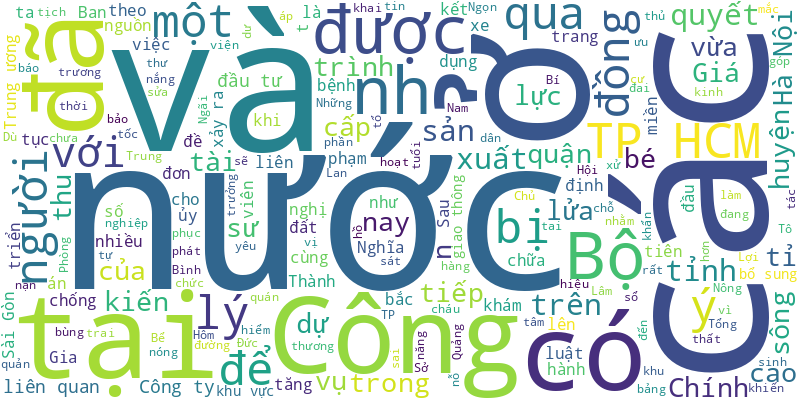
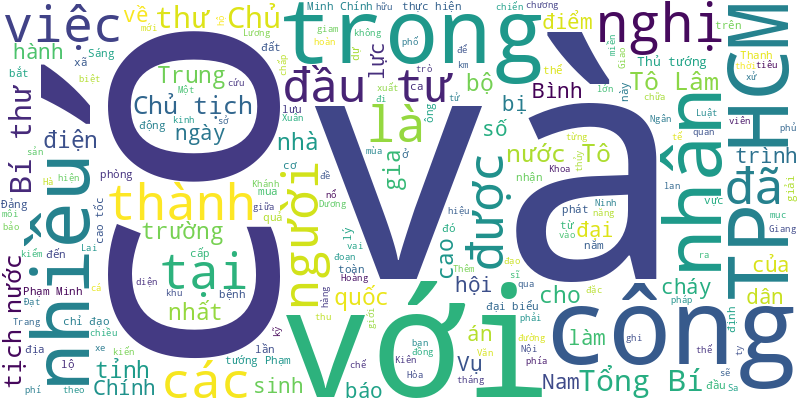
🍀 = 40%

diff --git a/README.md b/README.md
@@ -1,70 +1,71 @@
 # Tuoi Tre RSS 
 
 ## Giáo dục 
-- Ngày 16-8, Nhà xuất bản Đại học Sư phạm TP.HCM đã ra mắt bộ sách "Học tiếng Anh với người nước ngoài" (Global Gateway) cho học sinh từ lớp 1 đến lớp 12, nhằm tăng cường khả năng nghe, nói tiếng Anh cho học sinh theo chương trình phổ thông 2018.
-- Bộ Giáo dục và Đào tạo sẽ ban hành quy chế tuyển sinh lớp 10 theo chương trình mới thống nhất trên toàn quốc.
-- Ban giám hiệu nhà trường nhận thấy việc ra quyết định "dừng đào tạo" học sinh là chưa hợp lý, quan tâm đến từng học sinh nhưng chưa đúng phương pháp.
-- Trường cao đẳng Việt Nam liệu có đủ sức tham gia vào 'cuộc chơi' đào tạo lao động cho các ngành về công nghệ bán dẫn?
-- Trường cao đẳng Sư phạm Đắk Lắk mắc nhiều sai phạm và bị đánh giá là chậm khắc phục, trong đó có việc 100 sinh viên tuyển vượt chỉ tiêu, chưa được cấp bằng.
-- Thứ trưởng Bộ Giáo dục và Đào tạo Phạm Ngọc Thưởng đã yêu cầu TP.HCM sớm có trường phổ thông dùng tiếng Anh là ngôn ngữ thứ 2.
-- Phát hiện hai em nhỏ bị rơi xuống sông đuối nước, ba học sinh lớp 8 đã lao tới cứu các em, đưa lên bờ an toàn.
-- Các bài học về kỹ năng sống phải được thiết kế thiết thực hơn. Sự trải nghiệm quan trọng nhất là trải nghiệm thực tế cuộc sống.
-- Phải có đủ sách giáo khoa đến tay học sinh trước năm học mới 2024-2025 là yêu cầu của Bộ GD-ĐT được nhắc lại khi sắp tới ngày khai trường.
-- Chính quyền Jakarta lên kế hoạch sắp xếp cho học sinh nghèo được học miễn phí tại 1.000 trường tư thục trong năm học tới.
-- Trong năm học mới, các trường phát triển hệ thống ngân hàng câu hỏi trực tuyến cho các môn học; đẩy mạnh đánh giá thường xuyên bằng hình thức trực tuyến...
-- Liên quan vụ tố không xác nhận cư trú cho trẻ đi học, người cha cho biết đã chuyển chỗ ở từ Vĩnh Long sang Bến Tre để con kịp nhập học.
-- Theo dự thảo sửa đổi, bổ sung thông tư số 50/2021, Bộ Công an sẽ sửa đối tượng dự tuyển trình độ thạc sĩ và bổ sung đối tượng được phép đăng ký dự tuyển trình độ đại học vừa làm vừa học.
-- Số điện thoại tiếp nhận thông tin trong giờ hành chính của Bộ Giáo dục và Đào tạo: 024.38621002, email: duongdaynongct10.2019@moet.gov.vn.
-- Trường đại học Sư phạm TP.HCM vừa công bố đề thi đánh giá năng lực chuyên biệt theo cấu trúc mới từ năm 2025.
-- Liên quan đến việc Trường THPT Ngô Quyền - Đông Anh, Hà Nội, ra quyết định "dừng đào tạo" với một học sinh lớp 12A5, Sở Giáo dục và Đào tạo Hà Nội vừa có chỉ đạo.
-- Trường trung cấp Y - Dược Tôn Thất Tùng bị thanh tra kết luận làm giả giấy chứng nhận đăng ký hoạt động để cung cấp cho bảo hiểm xã hội quận.
-- Ông Nguyễn Văn Hiếu - giám đốc Sở Giáo dục và Đào tạo TP.HCM - yêu cầu các trường trung học coi dạy tiếng Anh là mở cánh cửa vào đời cho học sinh và yêu cầu cán bộ sở này nghiên cứu trình dự thảo về phổ cập tiếng Anh cho học sinh TP.
-- Sinh viên ngành công nghệ thông tin Trường đại học Công nghệ TP.HCM (HUTECH) trải nghiệm cách học lưu động mà ở đó các bạn được vạch đường từ những chuyên gia công nghệ.
-- Nhiều trường phổ thông tư thục tại TP.HCM đã bắt đầu đón học sinh tựu trường năm học mới từ tuần này.
-- Sở Giáo dục và Đào tạo TP.HCM vừa yêu cầu Trường quốc tế AISVN nghiêm túc chấp hành quyết định đình chỉ hoạt động, đồng thời tạo mọi điều kiện thuận lợi nhất cho cha mẹ học sinh làm thủ tục chuyển trường.
-- Chương trình tập luyện điều trị cong vẹo cột sống do nhóm các nhà khoa học thuộc Viện Vật lý y sinh học (Viện Khoa học và Công nghệ quân sự) nghiên cứu thành công và đã áp dụng trong khám và điều trị tại viện này từ năm 2022 đến nay.
-- PGS.TS Phạm Quang Huy - phó trưởng ban đào tạo Đại học Kinh tế TP.HCM - có thêm một bài báo vừa bị một tạp chí quốc tế gỡ bỏ. Ông Huy đã có đơn xin thôi chức vụ và được nhà trường chấp nhận.
-- Bộ Chính trị vừa có kết luận tiếp tục thực hiện nghị quyết số 29-NQ/TW của Ban Chấp hành Trung ương Đảng về đổi mới căn bản, toàn diện giáo dục và đào tạo.
-- Trường đại học Ngoại ngữ Hà Nội (nay là Trường đại học Hà Nội) là trường đại học đầu tiên cấp bằng cử nhân cho ông Vương Tấn Việt (thượng tọa Thích Chân Quang).
-- Hiện nay, TP.HCM đã dạy một số môn học như toán, khoa học bằng tiếng Anh, năm học 2024-2025, TP khuyến khích các trường tiểu học tiếp tục dạy một số môn học bằng tiếng nước ngoài.
-- Đây là một trong những nội dung Bộ Giáo dục và Đào tạo đề nghị các địa phương phối hợp thực hiện vào dịp khai giảng năm học mới.
-- Sau mỗi giờ ăn tối, tiếng trống báo vang lên và loa công cộng phát đi thông tin "Đã đến giờ học tối".
-- Đến nay Trường đại học Bách khoa, Đại học Quốc gia TP.HCM vẫn chưa được cấp quyền sử dụng đất tại cơ sở Lý Thường Kiệt, quận 10, TP.HCM.
-- Tùy theo mức độ nghiêm trọng, người sử dụng bằng giả sẽ có thể bị xử phạt vi phạm hành chính hoặc truy cứu trách nhiệm hình sự.
+- Tại Trường đại học Cần Thơ, các ngành sư phạm lấy điểm chuẩn 'khủng'. Nhiều trường khác cũng có mức điểm chuẩn bất ngờ. Tuổi Trẻ Online liên tục cập nhật.
+- Thí sinh trúng tuyển vào sư phạm ngữ văn và sư phạm lịch sử của Trường đại học Sư phạm Hà Nội phải có điểm trung bình từ 9,76 điểm/môn trở lên.
+- Tối 17-8, Trường đại học Quốc tế, Học viện Hàng không Việt Nam và Trường đại học Văn Lang công bố điểm chuẩn trúng tuyển theo phương thức xét điểm thi tốt nghiệp THPT 2024.
+- Học viện Ngoại giao vừa công bố điểm chuẩn xét tuyển năm 2024, trong đó ngành Trung Quốc học cao nhất với 29,2 điểm tổ hợp C00.
+- Tính đến tối 17-8, đã có 11 trường đại học thành viên trực thuộc Đại học Quốc gia Hà Nội công bố điểm chuẩn trúng tuyển theo phương thức xét điểm thi tốt nghiệp THPT.
+- Đại học Kinh tế TP.HCM vừa công bố điểm chuẩn các phương thức xét tuyển đại học chính quy 2024, với mức điểm tăng mạnh ở cả hai cơ sở đào tạo.
+- Ngành truyền thông đa phương tiện lấy điểm chuẩn 28,25/30, cao nhất Học viện Báo chí và Tuyên truyền ở phương thức xét điểm thi tốt nghiệp THPT.
+- Thêm hai trường đại học ở TP.HCM vừa công bố điểm chuẩn là Trường đại học Công Thương TP.HCM và Trường đại học Tài chính - Marketing.
+- Ngành lấy điểm chuẩn cao nhất Trường đại học Luật Hà Nội là luật kinh tế khối C, thí sinh phải đạt trung bình 9,6 điểm/môn mới đậu.
+- Trường đại học Dược Hà Nội và Trường đại học Y Dược (Đại học Quốc gia Hà Nội) vừa công bố điểm chuẩn trúng tuyển phương thức xét điểm thi tốt nghiệp THPT.
+- Tối 17-8, Trường đại học Công nghiệp TP.HCM công bố điểm chuẩn bậc đại học chính quy bằng phương thức xét tuyển sử dụng kết quả thi tốt nghiệp THPT năm 2024.
+- Ban tuyển sinh quân sự (Bộ Quốc phòng) công bố điểm chuẩn trường quân đội năm 2024, dao động từ trên 20 điểm đến trên 28 điểm.
+- Năm 2024, điểm chuẩn hầu hết các ngành của Trường đại học Ngân hàng TP.HCM tăng so với năm 2023. Tuy nhiên có ngành giảm 1 điểm.
+- Điểm chuẩn vào Trường đại học Công nghệ (Đại học Quốc gia Hà Nội) năm nay dao động từ 22,5 đến 27,8 điểm.
+- Trường đại học Khoa học xã hội và Nhân văn Hà Nội lấy điểm chuẩn vào ngành quan hệ công chúng, báo chí ở mức trên 29 điểm, tổ hợp C00.
+- Điểm chuẩn ngành kỹ thuật hạt nhân năm nay tăng 6,6 điểm; ngành khoa học vật liệu tăng 5,3 điểm; ngành quản lý tài nguyên và môi trường tăng 3,5 điểm...
+- Ngành thương mại điện tử của Trường đại học Kinh tế quốc dân lấy điểm chuẩn ở mức cao như năm 2023 là 28,02 điểm.
+- Ngày 17-8, Trường đại học Ngoại thương (FTU) công bố điểm chuẩn theo phương thức xét điểm thi tốt nghiệp. Có 95% chỉ tiêu có ngưỡng điểm 27.
+- Chiều 17-8, Trường đại học Bách khoa (Đại học Quốc gia TP.HCM) công bố điểm chuẩn theo phương thức xét tuyển tổng hợp năm 2024.
+- Hai ngành lấy điểm chuẩn cao nhất Trường đại học Thương mại là thương mại điện tử (quản trị thương mại điện tử), marketing (marketing thương mại), thí sinh phải được 9 điểm/môn.
+- Ngành có điểm chuẩn tăng nhiều nhất Trường đại học Y Dược Cần Thơ là y học cổ truyền. Riêng ngành y tế công cộng giảm gần 1 điểm.
+- Giải Lê Quý Đôn trên ấn phẩm Nhi Đồng - Khăn Quàng Đỏ của báo Tuổi Trẻ bước vào mùa giải thứ 30 và đón nhận bằng khen của UBND TP.HCM.
+- Trường đại học Kinh tế - Luật (Đại học Quốc gia TP.HCM) vừa công bố điểm chuẩn trúng tuyển đại học chính quy theo phương thức xét điểm thi tốt nghiệp THPT năm 2024.
+- Chiều 17-8, Đại học Bách khoa Hà Nội công bố điểm chuẩn trúng tuyển đại học chính quy năm 2024 theo phương thức xét điểm thi tốt nghiệp THPT và điểm thi đánh giá tư duy.
+- Ngành luật kinh tế của Học viện Ngân hàng có điểm chuẩn cao nhất 28,13 điểm, tương đương hơn 9,3 điểm/môn thí sinh mới trúng tuyển.
+- Chiều và tối nay 17-8, nhiều trường đại học đã công bố điểm chuẩn phương thức xét điểm thi tốt nghiệp THPT. Tuổi Trẻ Online liên tục cập nhật.
+- Dự thảo thông tư về kiểm định chất lượng chương trình đào tạo do Bộ Giáo dục và Đào tạo đưa ra lấy ý kiến có nhiều thay đổi so với trước đây.
+- Trường đại học Y Dược TP.HCM vừa công bố nghị quyết bổ nhiệm phó hiệu trưởng phụ trách chuyên môn của nhà trường.
+- Năm học 2024 - 2025, TP.HCM sẽ lựa chọn các trường phổ thông công lập để thí điểm dùng tiếng Anh làm ngôn ngữ thứ 2 dạy học. Đây là bước đột phá của giáo dục TP.HCM trong năm học mới.
+- Các trường học cho rằng nếu học sinh được tự do dùng điện thoại, các em có thể xem nội dung có hại hoặc chơi trò chơi, dẫn tới không tập trung học.
 ![Edu](Edu.png)
 ## Thời Sự 
-- Gia tài của người phụ nữ 67 tuổi là chiếc áo thanh niên xung phong màu rêu bạc thếch được ủi thẳng thớm cùng 15 cuốn sổ tay ố vàng. Những trang sổ ghi chép câu chuyện đồng đội đầy kỷ niệm yêu thương và ý nghĩa lý tưởng cuộc đời.
-- Hôm nay 17-8, Tổng Bí thư, Chủ tịch nước Tô Lâm cùng đoàn công tác Trung ương sẽ thăm và làm việc với Thành ủy TP.HCM.
-- Một số tin tức đáng chú ý: Giá chung cư Hà Nội chưa thể giảm ngay; Quyết định mở thủ tục phá sản LDG bị hủy; Quỹ bảo hiểm thất nghiệp kết dư hàng chục nghìn tỉ, vì sao?; Bể ống nước nên khu Bình Lợi, TP.HCM cúp nước cuối tuần...
-- Hôm nay 17-8, thời tiết miền Trung tiếp tục nắng nóng diện rộng, có nơi nắng nóng gay gắt. Miền Bắc và miền Nam có lúc mưa rào.
-- Ngọn lửa bất ngờ bùng lên ở bảng hiệu rồi cháy hết mặt trước quán karaoke 4 tầng khiến nhiều người bị một phen hốt hoảng.
-- Ngọn lửa bùng lên dữ dội, kèm theo khói đen ngùn ngụt tại quán bar trên phố Phó Đức Chính (quận Ba Đình, Hà Nội). Lực lượng chức năng đang nỗ lực dập lửa.
-- Bộ Công an đề nghị hơn 63.000 học viên liên quan đến vụ án xảy ra tại Trung tâm dạy nghề lái xe Sài Gòn khẩn trương liên hệ theo số điện thoại 0993.093.972 để được hướng dẫn giải quyết quyền lợi.
-- Thủ tướng thống nhất xây dựng một luật để sửa đổi, bổ sung 7 luật liên quan tài chính nhằm xử lý các vướng mắc mang tính cấp bách, góp phần tháo gỡ khó khăn trong hoạt động sản xuất kinh doanh.
-- Thành ủy TP.HCM vừa công bố đường link khảo sát nhằm lấy ý kiến đóng góp của người dân và các ý kiến đề xuất liên quan đến dự thảo bảng giá đất dự kiến áp dụng tại TP.
-- Dù với trang thiết bị rất thô sơ nhưng với ý thức tự lực, tự cường, với lòng yêu nước và quyết tâm rất cao, giáo sư Trần Đại Nghĩa cùng với cán bộ, kỹ sư của ta sản xuất thành công súng chống tăng Bazooka đầu tiên.
-- Các đơn vị kỳ vọng khai thác tiềm năng đường thủy lớn ở TP.HCM, phát triển dòng sông Sài Gòn "trên bến dưới thuyền" như các nước trên thế giới.
-- Sở Nông nghiệp và Phát triển nông thôn Quảng Ngãi đề xuất sửa chữa, cải tạo hồ chứa nước trên miệng núi lửa Thới Lới để cung cấp nước sinh hoạt cho toàn đảo Lý Sơn thay vì phục vụ sản xuất như lâu nay.
-- Quá trình cổ phần hóa Công ty Công trình đô thị Gia Lai đã xảy ra nhiều sai phạm trong quản lý đất đai, liên danh liên kết gây thất thoát tài sản nhà nước.
-- Các nước trong khu vực sông Mekong - Lan Thương đều ủng hộ Việt Nam tổ chức Hội nghị Bộ trưởng hợp tác nguồn nước năm 2025, xem quản lý bền vững nguồn nước là ưu tiên hàng đầu tại hội nghị vừa kết thúc ở Thái Lan.
-- Chiều 16-8, một vụ tai nạn giao thông nghiêm trọng xảy ra ở huyện Châu Đức, tỉnh Bà Rịa - Vũng Tàu khiến tài xế xe 7 chỗ tử vong tại chỗ.
-- Nhận tin báo bé trai quốc tịch Nhật Bản có dấu hiệu bị ngộ độc thực phẩm trên cao tốc Hà Nội - Hải Phòng, cảnh sát giao thông đã dùng xe đặc chủng để đưa cháu bé tới bệnh viện.
-- Trường cao đẳng Sư phạm Đắk Lắk mắc nhiều sai phạm và bị đánh giá là chậm khắc phục, trong đó có việc 100 sinh viên tuyển vượt chỉ tiêu, chưa được cấp bằng.
-- Ban Chấp hành Trung ương Đảng đã bầu bổ sung các ông Nguyễn Duy Ngọc, Trịnh Văn Quyết, Lê Minh Trí vào Ban Bí thư.
-- Bộ trưởng Bộ Công an Lương Tam Quang đã được Ban Chấp hành Trung ương Đảng bầu bổ sung làm ủy viên Bộ Chính trị khóa XIII.
-- Viện KSND tỉnh Khánh Hòa vừa chuyển đơn khiếu nại quyết định không khởi tố vụ án hình sự tại dự án của Công ty TNHH Quốc Hân (TP Nha Trang) và đề nghị Cơ quan cảnh sát điều tra Công an tỉnh Khánh Hòa giải quyết.
-- Dự án bờ bắc kênh Đôi quận 8 tăng vốn từ 4.930 tỉ đồng lên 7.415 tỉ đồng khi áp dụng Luật Đất đai mới, tương đương mức tăng hơn 50%.
-- Sau vụ tai nạn ở khu vực cầu Phú Mỹ vừa qua, Sở Giao thông vận tải TP.HCM và các đơn vị liên quan đã cho lập tổ xử lý sự cố riêng cho khu vực này.
-- Đàn bò sữa tại Lâm Đồng đã tiêm vắc xin NAVET-LPVAC của Công ty Navetco vẫn tiếp tục chết mặc dù được nỗ lực cứu chữa.
-- Ngày 2-8 vừa qua, Chính phủ đã quyết định phê duyệt chủ trương đầu tư cao tốc TP.HCM - Mộc Bài (dài 51km, qua TP.HCM và Tây Ninh). Hiện các địa phương đang chuẩn bị những bước tiếp theo để triển khai dự án.
-- Huyện Nghĩa Hành có tờ trình gửi UBND tỉnh Quảng Ngãi hỗ trợ kinh phí để đầu tư khẩn cấp kè chống sạt lở bờ sông Phước Giang, đoạn qua khu tái định cư Đồng Giá mà báo Tuổi Trẻ phản ánh.
-- Hiện nay có tình trạng người dân đăng ký khám chữa bệnh bảo hiểm y tế ở bệnh viện tuyến huyện tại tỉnh này thì không khám được ở phòng khám đa khoa (tuyến huyện) tại tỉnh khác.
-- Sau khi lắng nghe ý kiến người thu gom, UBND quận Bình Tân đã có một số điều chỉnh việc thu tiền rác qua app, các phường tạm thời thu trực tiếp như cũ.
-- Cầu đi bộ bắc qua sông Sài Gòn do Công ty Nutifood tài trợ có tổng mức đầu tư 996,9 tỉ đồng.
-- Nguồn thu từ các mỏ cát ở tỉnh Tiền Giang sẽ được ưu tiên sử dụng đầu tư các công trình chống sạt lở.
-- Sau khi chửi bới, quát mắng bé trai, người đàn ông dìm đầu cháu bé xuống nước tại một bể bơi ở quận Tây Hồ (Hà Nội).
+- Với vốn đầu tư khoảng 13 triệu USD, nhà máy xử lý nước thải ở phía bắc TP Nha Trang (Khánh Hòa) sẽ góp phần bảo vệ môi trường cho khu vực này.
+- Một số tin tức đáng chú ý: Lãnh đạo TP.HCM đối thoại với người dân về Luật Đất đai mới; Lộ diện nhiều 'đại gia' lần đầu chậm trả nợ trái phiếu; Thêm nhiều trường 'hot' công bố điểm chuẩn...
+- Với việc thời tiết nắng nóng kéo dài nhiều ngày qua tại Trung Bộ và còn duy trì trong nhiều ngày tới, nguy cơ cháy nổ rất cao.
+- Tổng Bí thư, Chủ tịch nước Tô Lâm và phu nhân sẽ dẫn đầu đoàn đại biểu cấp cao Việt Nam thăm Trung Quốc trong ba ngày, từ 18 đến 20-8.
+- Vụ cháy nhà xưởng lan ra từ khu vực chuyền sơn của công ty sản xuất đồ gỗ tại Bình Dương, nhiều chiến sĩ được huy động để chữa cháy và đã khống chế được đám cháy lớn này.
+- Thủ tướng Phạm Minh Chính động viên toàn đội ngũ kỹ sư, công nhân trên công trường đảm bảo tiến độ cao tốc Khánh Hòa - Buôn Ma Thuột.
+- Tổng Bí thư, Chủ tịch nước Tô Lâm đề nghị chính quyền TP.HCM cân nhắc, tính toán kỹ, đặc biệt là vai trò của Ngân hàng Chính sách xã hội với các cơ chế cho sinh viên vay tiền đi học.
+- Bộ Giao thông vận tải trình Chính phủ ban hành nghị định thu phí đường cao tốc do Nhà nước đầu tư, đại diện chủ sở hữu với mức phí thấp nhất từ 900 đồng/km, cao nhất 5.200 đồng/km theo từng nhóm xe.
+- CSGT khẳng định cơ quan chức năng không ghi nhận phát sinh việc sang tên, đổi chủ biển số này giữa chủ sở hữu và Bùi Xuân Huấn.
+- Nhiều hộ dân ven rừng phòng hộ ở xã Bình An (huyện Kiên Lương, tỉnh Kiên Giang) hiện "sống khỏe" với việc nuôi cá mú trân châu trong ao đất.
+- Khoa cấp cứu Bệnh viện Đa khoa tỉnh Gia Lai tiếp nhận hơn chục bệnh nhân là hành khách bị nạn trong vụ lật xe trên quốc lộ 14, chiều 17-8.
+- Tổng Bí thư, Chủ tịch nước Tô Lâm băn khoăn tại sao TP.HCM có vai trò, vị thế tiềm lực mạnh như thế nhưng chưa có giải pháp thu hút các nguồn lực đầu tư hiệu quả.
+- Vụ tranh chấp bất động sản lớn nhất miền Trung giữa 2 công ty Hoàng Nhất Nam và Bách Đạt An vừa có diễn biến mới.
+- Trong chương trình Thắp sáng ước mơ thanh niên hoàn lương, có 500 phạm nhân đang chấp hành án tại trại giam Thanh Xuân được khám chữa bệnh và được giao lưu với các nghệ sĩ trẻ thành phố Hà Nội.
+- Đó là mục tiêu trước mắt mà giới báo chí, trong đó có báo Đảng ở miền Trung - Tây Nguyên, xác định phải đạt được trong quá trình thực hiện chiến lược kinh tế quốc gia.
+- Tổng Thanh tra Chính phủ kiến nghị Thủ tướng chỉ đạo kiểm điểm, xử lý trách nhiệm UBND tỉnh Gia Lai giai đoạn 2016-2020.
+- Ngày 17-8, ông Lưu Văn Ninh - giám đốc Đài Khí tượng thủy văn tỉnh An Giang - đưa ra dự báo đỉnh lũ có thể xuất hiện vào cuối tháng 9 hoặc đầu tháng 10.
+- Toàn bộ các tỉnh, thành phía Nam ghi nhận 199 ca đậu mùa khỉ, trong đó có 8 ca tử vong, TP.HCM là địa phương có số ca cao nhất.
+- Suốt 10 năm qua, đã có nhiều tập thể và hàng ngàn cá nhân tham gia vào câu lạc bộ 'Vì Hoàng Sa - Trường Sa thân yêu'.
+- Báo cáo với Tổng Bí thư, Chủ tịch nước Tô Lâm, TP.HCM kiến nghị Trung ương xem xét, cho phép xây dựng Luật Quản lý và Phát triển đô thị đặc biệt.
+- Chiều 17-8, Tổng Bí thư, Chủ tịch nước Tô Lâm làm việc với Thành ủy TP.HCM về kết quả thực hiện nghị quyết Đại hội đại biểu toàn quốc lần thứ XIII của Đảng và nghị quyết Đại hội đại biểu Đảng bộ thành phố lần thứ XI.
+- Thủ tướng Phạm Minh Chính chỉ đạo phải khẩn trương hoàn thành thủ tục đẩy nhanh dự án tuyến đường sắt đô thị số 2, đoạn Nam Thăng Long - Trần Hưng Đạo; dự án đầu tư xây dựng cao tốc Ninh Bình - Hải Phòng.
+- Ông Phong, làm trong lĩnh vực nhà đất, là người đàn ông dùng xương bò đập vỡ kính ô tô người khác tại Bình Dương đã bị khởi tố, bắt tạm giam.
+- Trường hợp đầu tư điện mặt trời mái nhà có lắp đặt hệ thống lưu trữ điện năng có thể được mua 100% công suất điện dư và nghiên cứu cho phép mua điện theo giá từng thời điểm.
+- Một nữ phó phòng thuộc Tòa án nhân dân cấp cao tại Đà Nẵng bị bắt quả tang về hành vi môi giới hối lộ.
+- Những năm gần đây, tỉ lệ giải ngân đầu tư công luôn là "nỗi lo" của TP.HCM và năm nay cũng vậy.
+- Liên quan đến sự cố nổ hầm thủy điện Nậm Cấu làm 1 người chết, 1 người bị thương, công an đã bắt thêm 3 người.
+- Sáng 17-8, Tổng Bí thư, Chủ tịch nước Tô Lâm đã trao tặng danh hiệu Anh hùng Lực lượng vũ trang nhân dân cho Công an TP.HCM.
+- Sáng 17-8, Thủ tướng Phạm Minh Chính đã làm việc với Ban Thường vụ Thành ủy Hà Nội về tình hình, giải pháp thúc đẩy phát triển kinh tế - xã hội và việc thực hiện các chương trình mục tiêu quốc gia.
+- Kiểm lâm Thừa Thiên Huế chỉ đạo lực lượng đi đến các chùa, địa điểm sinh hoạt Phật giáo trên địa bàn để tuyên truyền, đề nghị Phật tử không mua, bán chim phóng sinh mùa Vu lan.
 ![New](News.png)
 ## Nhịp sống số 
+- Ngày 18-8, Hội nghị GenAI Summit 2024 về trí tuệ nhân tạo với chủ đề “Chân Trời Mới” diễn ra tại TPHCM.
 - Theo Open AI, việc giao tiếp nhiều với ChatGPT có thể khiến người dùng trở nên kém khéo léo hoặc ít muốn tương tác với con người hơn.
 - Sự cố mới đây của Gmail khiến hàng nghìn người không thể gửi email hoặc tin nhắn thông qua dịch vụ này.
 - Sở Cảnh sát thành phố Tulsa, bang Oklahoma (Mỹ) cảnh báo nguy cơ từ pin sạc dự phòng, sau khi một con chó nhai cục sạc dự phòng gây cháy nhà.
@@ -94,5 +95,4 @@
 - Kinh tế số ước đạt tăng trưởng 22,4%, chiếm tỉ trọng 18,3% trong GDP. Doanh thu lĩnh vực công nghệ thông tin (kinh tế số ICT) ước đạt trên 1,92 triệu tỉ đồng trong 6 tháng đầu năm.
 - Cơ quan Hàng không vũ trụ Nhật Bản (JAXA) ngày 5-7 thừa nhận đã bị rò rỉ thông tin sau một vụ tấn công mạng, may mắn không lộ thông tin tên lửa và vệ tinh.
 - Có thể thấy rằng để tối đa hóa doanh thu từ website, ứng dụng, thì nhiệm vụ là cần duy trì hiệu suất ở mức cao nhất có thể.
-- Theo cơ quan chức năng, nhà mạng cho phép thực hiện cuộc gọi lừa đảo nghĩa là đã cung cấp dịch vụ liên lạc không đúng cách và gây thiệt hại cho thuê bao.
 ![life](Life.png)
